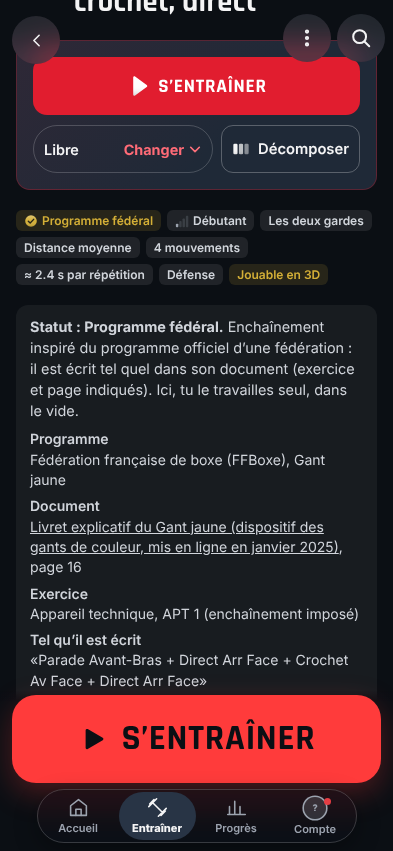
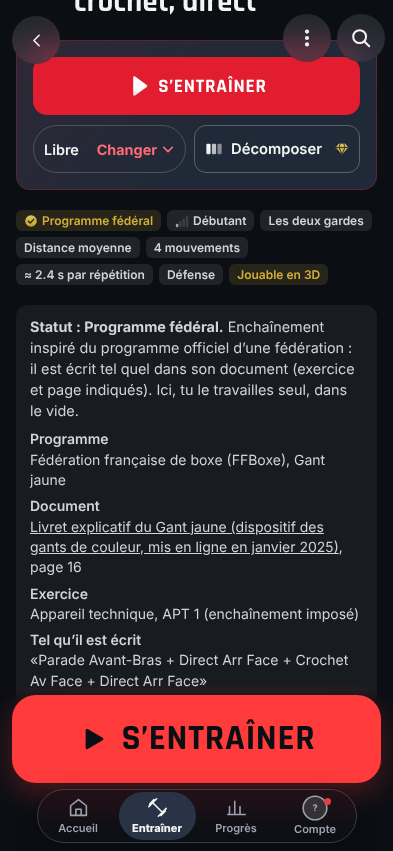
v2.8.2 : marquage Premium allégé (coin doré sur les cartes, point doré sur les boutons et options)
Claude-Session: https://claude.ai/code/session_01LGzE8HTUpbAPGLWYiFp5eu

Changed region(s): [[0.2443, 0.1528, 0.8855, 0.2139]]

diff --git a/src/ui/premium/premium.css b/src/ui/premium/premium.css
@@ -408,3 +408,42 @@
   right: -8px;
   margin: 0;
 }
+
+/* 2.8.2 (Youssef, 2026-11-25 « pas forcément un diamant… ne pas surcharger », option C « coin doré ») : une carte
+   Premium (programme, exercice, technique, coach) porte un petit coin doré en haut à droite, sans icône dans son titre ;
+   un bouton ou une option porte un petit point doré. Le diamant reste seulement sur les titres d'écran (PremiumMarker). */
+.premium-tag svg {
+  display: none;
+}
+.premium-tag::before {
+  content: '';
+  width: 7px;
+  height: 7px;
+  border-radius: 50%;
+  background: var(--gold);
+  box-shadow: 0 0 0 2px color-mix(in srgb, var(--gold) 25%, transparent);
+}
+:is(.prog-card, .ex-card, .tech-card, .crow-card, .star-thumb) .premium-tag {
+  /* still read by screen readers (« Premium »), drawn as the corner of the card */
+  position: absolute;
+  width: 1px;
+  height: 1px;
+  overflow: hidden;
+  clip-path: inset(50%);
+  margin: 0;
+}
+:is(.prog-card, .ex-card, .tech-card, .crow-card, .star-thumb):has(.premium-tag) {
+  position: relative;
+  overflow: hidden;
+}
+:is(.prog-card, .ex-card, .tech-card, .crow-card, .star-thumb):has(.premium-tag)::before {
+  content: '';
+  position: absolute;
+  top: 0;
+  right: 0;
+  z-index: 3;
+  border-style: solid;
+  border-width: 0 16px 16px 0;
+  border-color: transparent var(--gold) transparent transparent;
+  pointer-events: none;
+}

diff --git a/src/domain/releases.ts b/src/domain/releases.ts
@@ -51,10 +51,10 @@ export const RELEASES: readonly Release[] = (
     {
       version: '2.8.2',
       releaseDate: '2026-11-24',
-      title: 'Le diamant Premium sur chaque élément',
+      title: 'Les éléments Premium repérés d’un coup d’œil',
       isMajor: false,
       changes: [
-        { category: 'ameliorations', text: 'Un petit diamant doré marque désormais chaque élément qui sera Premium : les exercices et les fiches techniques des niveaux avancé et expert, les programmes (sauf un programme débutant gratuit par discipline), les coachs Naël, Inaya, Victor et Kanya, le bouton Décomposer et les options avancées du chronomètre. Tout reste accessible : le paiement n’est pas encore ouvert.' },
+        { category: 'ameliorations', text: 'Un petit coin doré marque désormais chaque carte qui sera Premium : les exercices et les fiches techniques des niveaux avancé et expert, les programmes (sauf un programme débutant gratuit par discipline), les coachs Naël, Inaya, Victor et Kanya. Un petit point doré marque le bouton Décomposer et les options avancées du chronomètre. Tout reste accessible : le paiement n’est pas encore ouvert.' },
       ],
       links: [{ label: 'Premium', to: '/premium' }],
     },

diff --git a/src/ui/premium/PremiumMarker.tsx b/src/ui/premium/PremiumMarker.tsx
@@ -31,8 +31,9 @@ export function PremiumMarker({ feature, size = 16 }: { feature: EntitlementId; 
 }
 
 /**
- * 2.8.2 (Youssef, 2026-11-24, « le petit diamant sur tous les items, options, programmes »): the diamond of ONE item
- * (a programme, an exercise, a technique, a coach, a button). Not a button: it sits inside cards and buttons that keep
+ * 2.8.2 (Youssef, 2026-11-24, « le petit diamant sur tous les items, options, programmes », then 2026-11-25 « pas
+ * forcément un diamant… ne pas surcharger », option C): the mark of ONE item. Drawn by premium.css as a gold corner on a
+ * card (programme, exercise, technique, coach) and as a small gold dot on a button or an option. Not a button: it sits inside cards and buttons that keep
  * their own action, and the item stays open. Named for screen readers; nothing for a Premium user.
  */
 export function PremiumTag({ feature, size = 14 }: { feature: EntitlementId; size?: number }) {

diff --git a/docs/JOURNAL_CORRECTIONS.md b/docs/JOURNAL_CORRECTIONS.md
@@ -5449,4 +5449,11 @@ ci-dessus sont publiées ensemble en v0.28.0 (pas de publication séparée de la
   - captures réelles avant (2.8.1) / après (2.8.2), mêmes écrans, 412 × 915 : fichiers du projet
     `monetisation/diamants-v2.8.2/comparatif-*.jpg` ;
   - Playwright complet : NON EXÉCUTÉ à ce stade (lancé ensuite, résultat ajouté avant la fusion).
+- **Retour de Youssef** (2026-11-25 00:34) : « pas forcément un diamant, faut trouver autre chose pour ne pas surcharger
+  des icônes ou options ». Quatre marquages comparés sur captures réelles (diamant, point, coin, liseré :
+  `monetisation/marquage-premium/planche-*.jpg`) ; appliqué en attendant son choix : option C recommandée, coin doré
+  en haut à droite des cartes Premium (programmes, exercices, techniques, coachs), petit point doré sur les boutons et
+  options (Décomposer, options du chrono), le diamant ne reste que sur les titres d'écran. Le marquage reste lu
+  « Premium » par les lecteurs d'écran. Tests Premium (vitest 22, Playwright 11) et build : TEST RÉUSSI ; captures
+  avant/après refaites avec le coin doré.
 - **Restauration** : branche `restauration/avant-diamants-v282` (= 2.8.1, `2969a77`).
